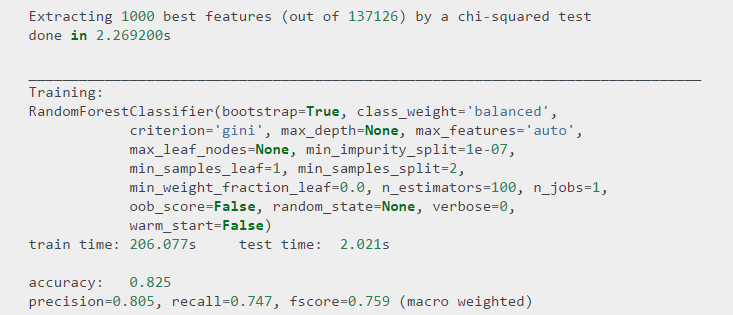
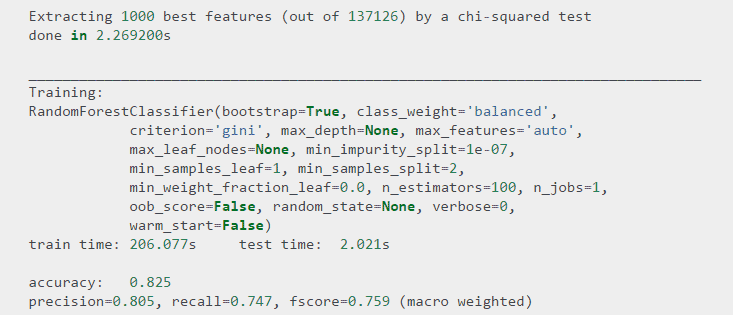
Smaller image files (though they were already small)

diff --git a/resume-model.html b/resume-model.html
@@ -103,7 +103,7 @@
 <p>My boss granted me permission to post an article about this project to my website. I have decided to use this project to teach you how a computer “thinks.” I will attempt to explain myself as clearly as possible so that many readers can understand the data science concepts I have been working with. I hope that this article may enlighten you about how machine learning works.</p>
 
 
-<p><img style="float: right; margin-left:10px; margin-top:-5px;" src="images/fixing-unplugged-computer-clipart_750-754.jpeg" width=275 height=275 alt="https://clipartfest.com/download/bb6ad6c6ec516c0883d3f33d885b02cca169f21b.html"/></p>
+<p><img style="float: right; margin-left:10px; margin-top:-5px;" src="images/fixing-unplugged-computer-clipart_750-754.png" width=275 height=275 alt="https://clipartfest.com/download/bb6ad6c6ec516c0883d3f33d885b02cca169f21b.html"/></p>
 <p>This project was written as a demonstration for DARPA, the Defense Advanced Research Projects Agency. DARPA has another project in mind for Mosaic, contingent on our demonstration of a resume classification model. Thus I was tasked with building this model, with guidance from other employees at the company. The other employees spent a good deal of time advising me, though I wrote the vast majority of the code. I ultimately ended up abandoning other approaches to the model and creating our final approach to the model myself, resulting in a model with better performance. I am nonetheless very grateful for the valuable data science advice I continued to receive from the employees around me as I built this model.</p>
 <h3>The Model</h3>
 <p>After a great deal of experimenting with the advice of my colleagues, I discovered a <a href="http://scikit-learn.org/stable/auto_examples/text/document_classification_20newsgroups.html">code sample on scikit-learn’s website</a> that does precisely what I am looking for. This code classifies news articles into 20 unique newsgroups, which is a very similar problem to classifying resumes by job-field.</p>
@@ -113,7 +113,7 @@
 <p>To explain decision trees, I will reference an example from the Kaggle website. I have spent a good deal of time studying their dataset from the Titanic disaster. Kaggle is hosting a machine-learning competition to generate a model that can predict the survival of Titanic passengers. For this model, the most obvious decision tree feature would be whether the passenger is male or female; females had a much higher survivability rate than males. Next, I could gauge which class the passenger was in. Third class had poor survivability, while first class was much more likely to escape alive. These features would be different nodes on a decision tree. There is also an element of randomness in the decision tree; thus, it will not necessarily produce exactly the same result every time. </p>
 <p>For the resume classification project, a decision tree would map out correlations between words. The computer generates a forest of different decision trees and averages out their answers to get the best category choice for each resume. This is a Random Forest.</p>
 <h3>Data Source</h3>
-<p><img style="float: left; margin-right:10px;" src="images/k19403833.jpg" width=200 height=200 alt="Resume clip-art" title="http://www.fotosearch.com/CSP538/k19403833/"/></p>
+<p><img style="float: left; margin-right:10px;" src="images/k19403833.png" width=200 height=200 alt="Resume clip-art" title="http://www.fotosearch.com/CSP538/k19403833/"/></p>
 <p>In order to build a resume classifier, I need resumes to classify! Fortunately, another intern at the company was tasked with the job of downloading batches of resumes from Indeed.com using shell scripts which were written by my supervisor. This intern downloaded 1000 resumes for each of 100 different job fields, in batches of 50. His job must have been very tedious.</p>
 <p>As I combed through the resume data, my boss and I discovered a problem: the downloaded resumes did not always match the supposed job field they represented! As I was showing my boss the input files, he found a resume that appeared completely irrelevant. This surprised me, and prompted me to investigate further. My colleagues and I had previously assumed this data was “correct.” In other words, we thought what we were downloading actually represented the field it was supposed to represent. Unfortunately, my boss and I only discovered this problem after the temporary employee who downloaded the resumes had already left. A computer model will not work if it is trained on faulty data!</p>
 <p>At this point, the model already appeared to be working marvellously! The model produced a high score, but obviously the underlying code was producing faulty predictions, since the data was incorrect. This meant the model was perpetuating the false job-fields it was being fed in. Something was similar in the returned resume results, or the model would not be able to classify the resumes at all. The computer model was successfully finding trends in the faulty resume data.</p>

diff --git a/coriolis-math.html b/coriolis-math.html
@@ -130,7 +130,7 @@
 <p>The velocity of your throw is based on how hard you <em>would</em> have thrown the coin on Earth. This is the easy part of our quest; it's basic kinematics, and it uses Earth's gravity.</p>
 <p><img style="float: right; margin-left:10px;" src="images/BasicKinematics.png" width=150 height=150/></p>
 <p>Physics tells us, that at the top of an arc of motion on earth, the velocity will exactly equal zero. </p>
-<p>In the image on the right, I expanded the path so you can better see the vertical throw; however, the coin still falls directly under where it was thrown.</p>
+<p>In the image on the right, I expanded the path so you can better see the vertical throw; however, the coin should fall directly under where it was thrown.</p>
 <p>This is the relevant kinematics fomula:</p>
 <div class="math">$$v_f^2=v_0^2+2ax$$</div>
 <p>Variables:</p>

diff --git a/author/kevin-price.html b/author/kevin-price.html
@@ -159,7 +159,7 @@
 		<!--A clever test to see if the article is summarized, or if it's just short.-->
 		<a href='resume-model.html'><div style='font:normal normal 400 1rem/1.125rem Georgia, serif; margin-left:.3in;'>— continued —</div></a>
 		
-		<!--721 18950-->
+		<!--721 18949-->
 		
     </div>
  

diff --git a/index.html b/index.html
@@ -159,7 +159,7 @@
 		<!--A clever test to see if the article is summarized, or if it's just short.-->
 		<a href='resume-model.html'><div style='font:normal normal 400 1rem/1.125rem Georgia, serif; margin-left:.3in;'>— continued —</div></a>
 		
-		<!--721 18950-->
+		<!--721 18949-->
 		
     </div>
  
